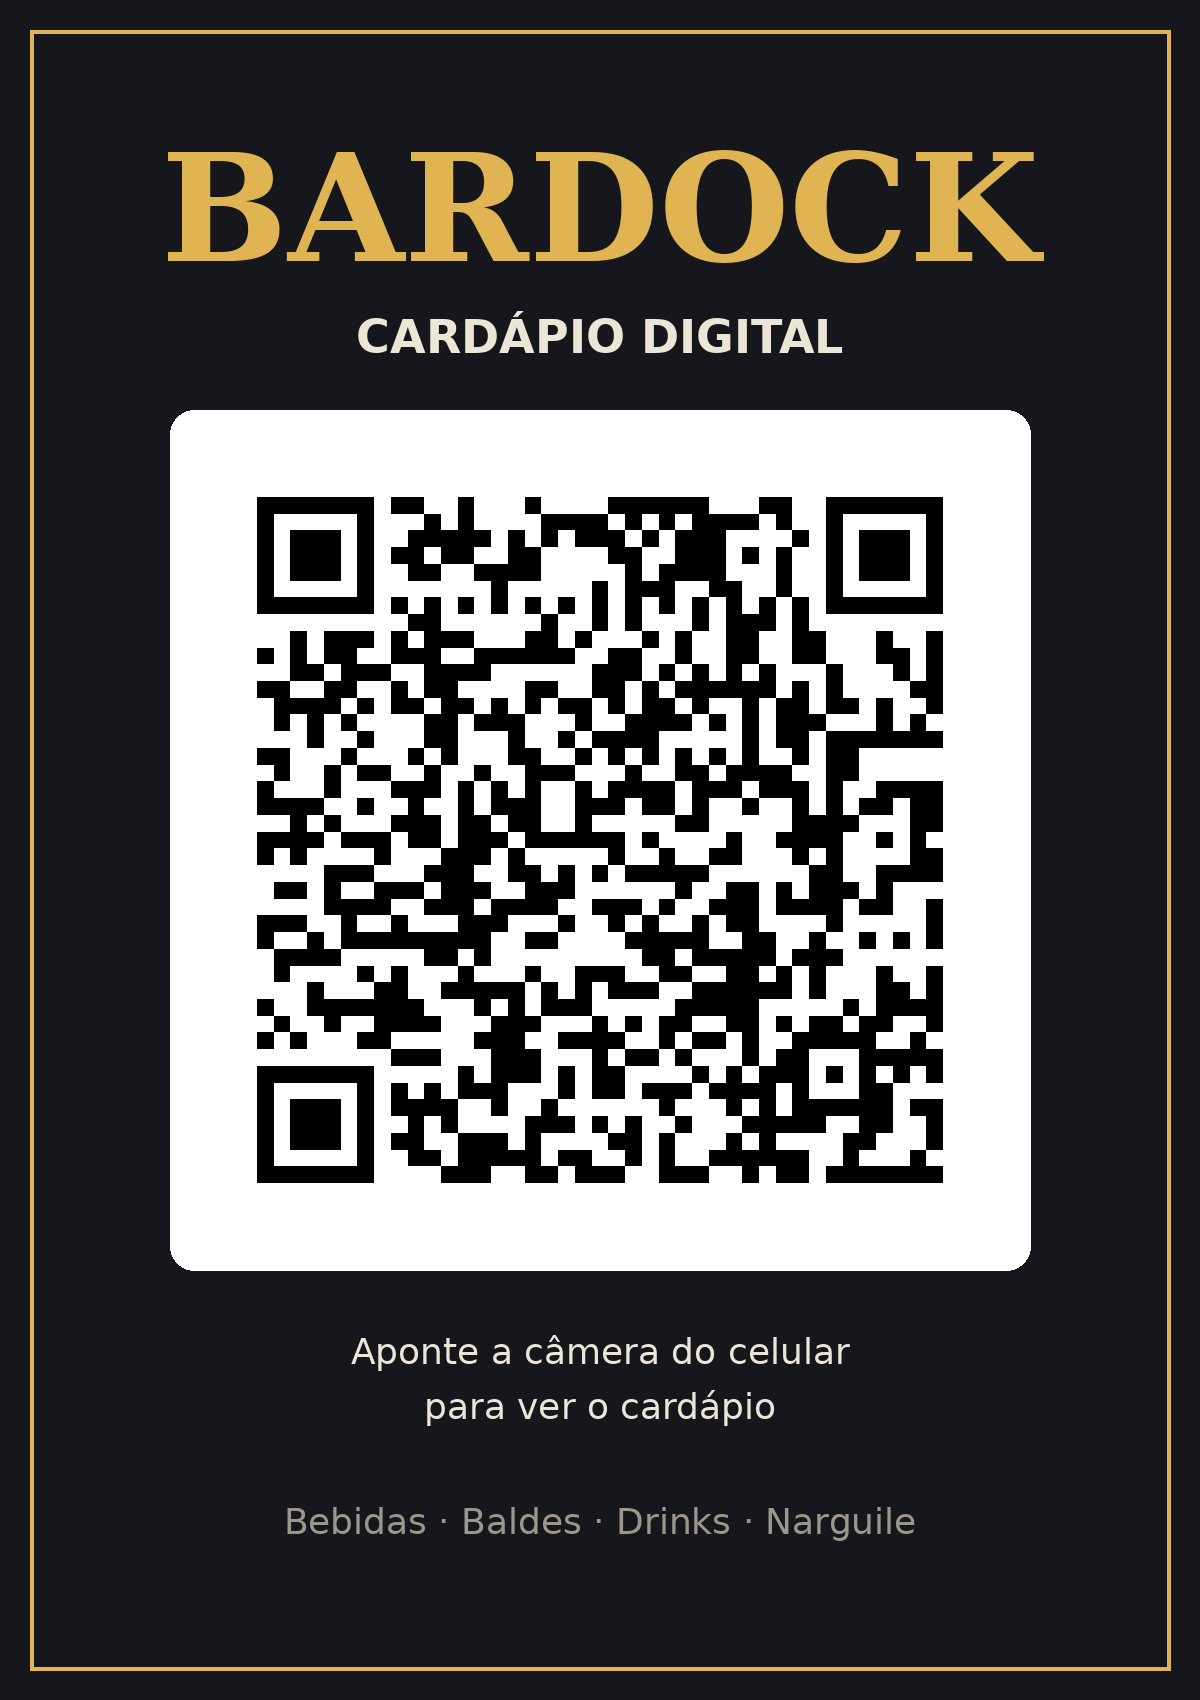
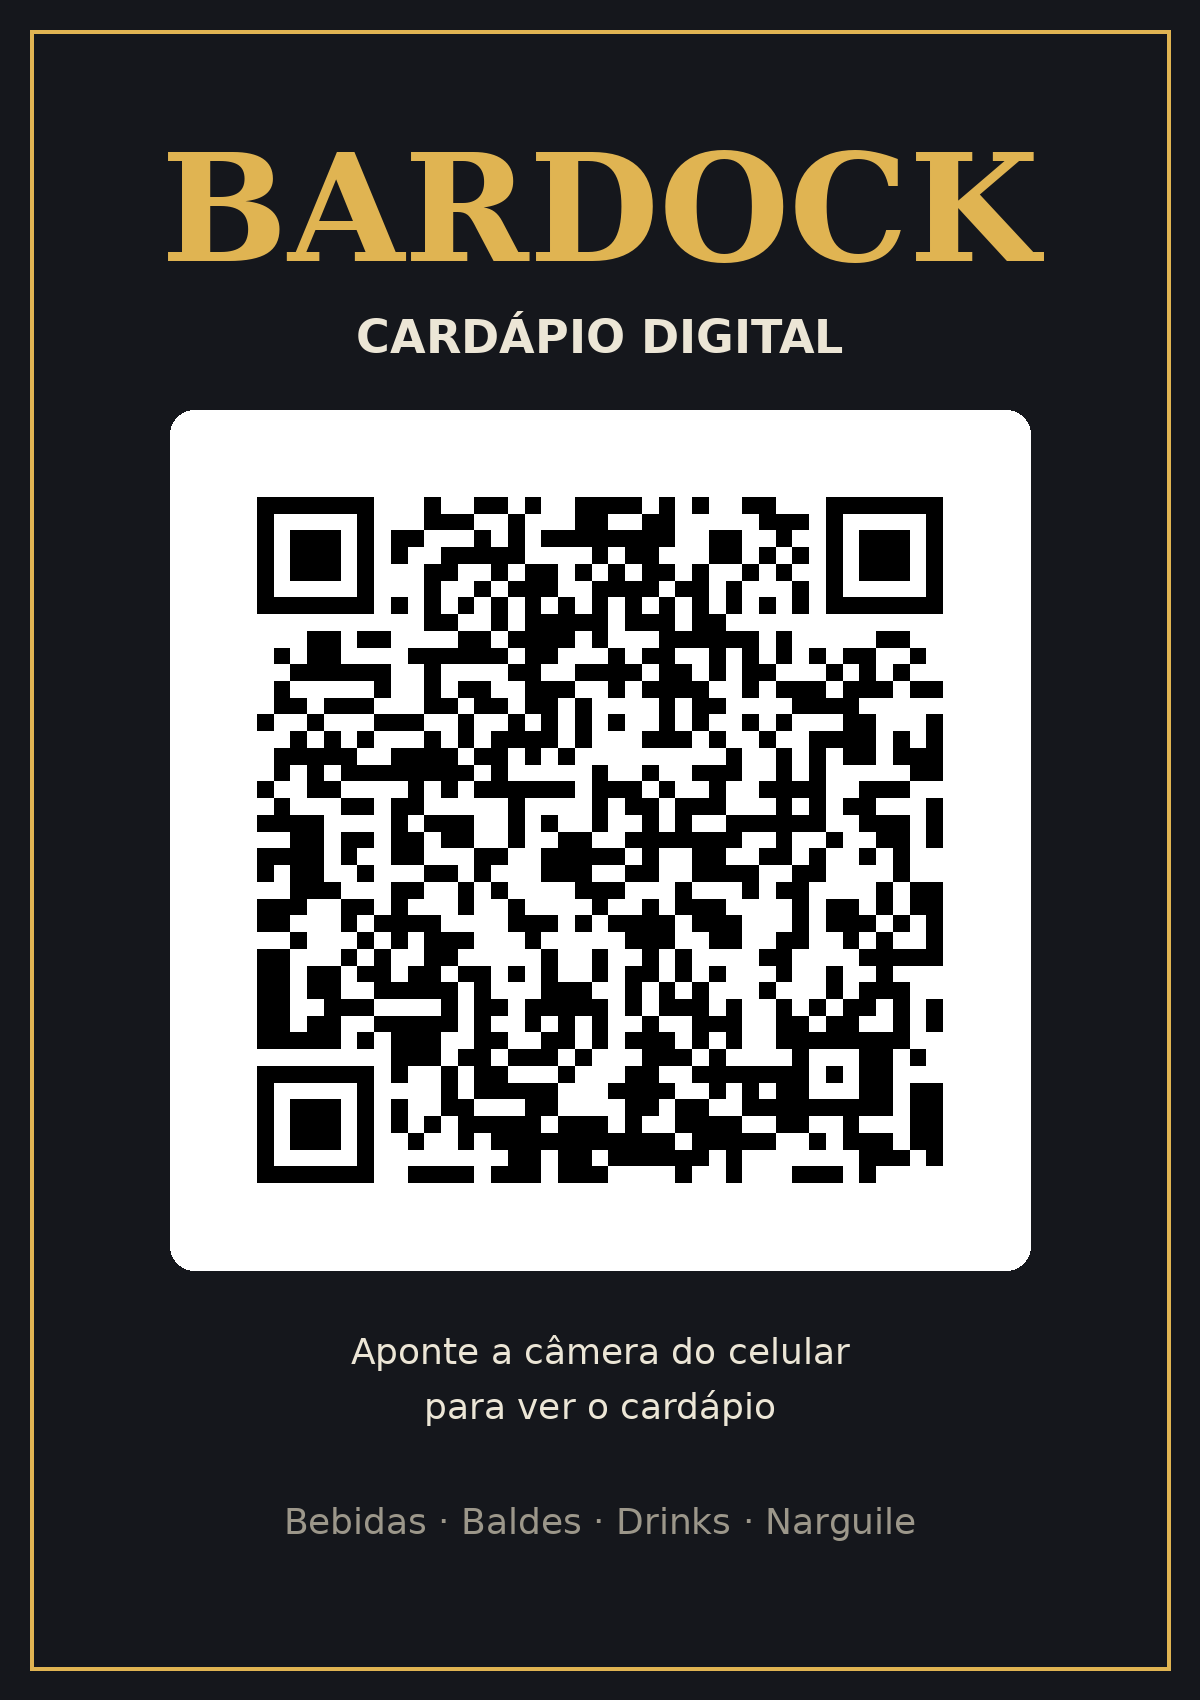
Aponta o QR code para o GitHub Pages
Gera os QR codes de novo com o endereço público do GitHub Pages
e explica no README como ativar o Pages.

Claude-Session: https://claude.ai/code/session_01YWwWMMiHfnV1mH8HyGMoav

Changed region(s): [[0.2158, 0.2806, 0.8017, 0.7171]]

diff --git a/README.md b/README.md
@@ -2,6 +2,8 @@
 
 Cardápio digital do Bardock: cervejas, baldes, drinks e caipirinhas, whiskies e gins, narguile e diversos, com os preços em reais.
 
+Endereço público: https://gusttavo-luiz.github.io/cardapio_exemplo/
+
 ## Arquivos
 
 - `index.html`: o cardápio. É uma página única, sem dependências para instalar. Abra no navegador ou publique em qualquer hospedagem de páginas estáticas (por exemplo, GitHub Pages).
@@ -21,4 +23,6 @@ Use ponto para centavos (`69.9` aparece como `69,90`).
 
 ## Sobre o QR code
 
-O QR code atual aponta para a versão do cardápio publicada no Claude. Se o cardápio passar a ser publicado em outro endereço (como o GitHub Pages deste repositório), gere um QR code novo com esse endereço.
+Os dois QR codes em `qrcode/` abrem https://gusttavo-luiz.github.io/cardapio_exemplo/. Esse endereço só funciona com o GitHub Pages ativado: em **Settings → Pages**, escolha **Deploy from a branch**, branch `main` e pasta `/ (root)`.
+
+Mudar itens ou preços no `index.html` não muda o endereço, então os QR codes já impressos continuam valendo.
